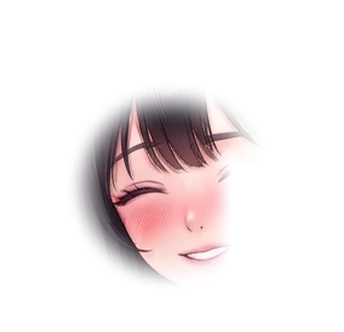
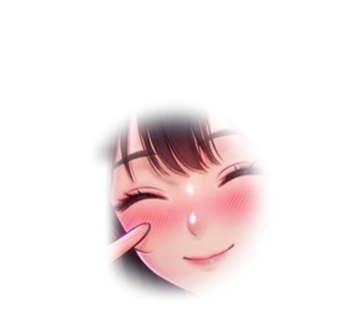
feat(cosplay-v2): rework Stage 5 into mega-fanservice bikini-maid bunny pose with arm behind head and giant soles in lens

Changed region(s): [[0.2035, 0.2711, 0.7849, 0.9036], [0.5523, 0.5723, 0.5814, 0.6024]]

diff --git a/src/domain/dialogue.ts b/src/domain/dialogue.ts
@@ -141,29 +141,27 @@ const STAGE_ZONE_OVERRIDES: Partial<
   },
   5: {
     head: [
-      'Нравятся мои глянцевые ушки Зайки? Ради тысячи сабов я готова мурлыкать и позировать хоть до утра~ ★ ♥',
-      'Подмигиваю и показываю пис самым щедрым VIP-папикам канала~ Ня, вы лучшие! ♥',
-      'Бархатный чокер с сердечком на шее так заводит... чувствую себя вашей личной ручной Зайкой~ ★ ♥',
+      'Слышите, как нежно звенит золотой колокольчик на моём чокере при каждом вдохе?~ Ня, любимые спонсоры! ★ ♥',
+      'Закинула ручку в кружевной манжете за голову, подмигиваю и показываю пис лучшим VIP-папикам канала~ ♥',
+      'Ушки Зайки и неоновое кресло — за 1000 сабов я устроила для вас самый горячий ночной эфир! ★ ♥',
     ],
     chest: [
-      'Розовая шнуровка на корсете трещит на каждом глубоком вдохе... Твич точно расплавится от такого косплея~ ♥',
-      'Открытые плечи, рюши, чокер и глубокое декольте — этот 1000-сабовый стрим войдёт в легенды! ★ ♥',
-      'М-мх, осторожнее со шнуровкой корсета — один неловкий узелок, и меня забанят за секунду!! Хи-хи~ ♥',
+      'Крошечный глянцевый бикини-топ с белыми рюшами и розовым бантиком еле прикрывает самое главное~ ♥',
+      'Когда поднимаю ручку за голову, грудь блестит в свете софитов и натягивает бретельки до предела!! ★ ♥',
+      'М-мх, осторожнее с розовым бантиком на груди — потянешь за ленточку, и весь верх развяжется прямо в эфире!! ♥',
     ],
     belly: [
-      'Откинулась в кресле, животик как на ладони... не щекочите, а то сладко дёрну ножками прямо по столу~ ♥',
-      'Каждый ваш донат заставляет меня томно выгибать спинку перед самой вебкой~ ★ ♥',
+      'Откинулась назад, кожа блестит от жары, животик и талия полностью открыты перед объективом~ ♥',
+      'Каждый ваш донат заставляет меня сладко выгибаться всем телом и звенеть колокольчиком~ ★ ♥',
     ],
     legs: [
-      'Заметили ажурную кружевную подвязку под короткой юбочкой? Надела специально ради вашего рекорда~ ★ ♥',
-      'Закинула ножки прямо на стол — в таком дерзком ракурсе под юбочкой почти не осталось тайн~ ♥',
-      'Коленки чуть сведены, кружево обнимает бедро... вижу, сколько клипов вы уже нарезали за минуту!~ ♥',
+      'Кружевная подвязка скользит по внутренней стороне бедра, а микро-шортики с рюшами почти ничего не прячут~ ★ ♥',
+      'Широко закинула глянцевые ножки прямо в объектив — такой откровенный ракурс только для моих 1000+ сабов~ ♥',
     ],
     feet: [
-      'А-ах, хи-хи!! Не щекочите голые пяточки прямо перед объективом — пальчики сами сжимаются на весь экран!! ♥',
-      'Прямо на столе, в ладони от 4K-линзы! Ценители босых ступней сегодня официально в раю~ ★ ♥',
-      'Дерево стола прохладное, а от ваших взглядов и донатов ступням безумно горячо~ Пошевелить пальчиками ещё ближе? ♥',
-      'М-мх! Каждая складочка на розовых пяточках в фокусе... ну и кто тут самая бесстыдная Зайка Твича?~ ★ ♥',
+      'А-ах, хи-хи, м-мх!! Обе босые ступни на пол-экрана прямо перед твоим лицом — не щекочи так сильно!! ♥',
+      'Видна каждая складочка и блеск на розовых пяточках в 4K! Ценители ножек сегодня официально сошли с ума~ ★ ♥',
+      'Пяточки лежат прямо на краю стола у самой вебки — сжимаю пальчики специально для твоих скриншотов~ ♥',
     ],
   },
 };

diff --git a/src/domain/subGoals.ts b/src/domain/subGoals.ts
@@ -218,11 +218,11 @@ export const SUB_GOAL_STAGES: readonly SubGoalStageDef[] = [
   {
     stage: 5,
     subsRequired: 1000,
-    shortGoalTitle: 'Мега-Косплей: Ножки на стол!',
-    outfitName: 'Косплей Зайки-горничной (босые ножки на столе в камеру!)',
-    removedItemLabel: '★ МЕГА КОСПЛЕЙ: НОЖКИ В КАМЕРУ!',
+    shortGoalTitle: 'Бикини-Косплей: Пяточки в линзу!',
+    outfitName: 'Бикини-косплей Зайки-горничной с колокольчиком (ножки в объектив!)',
+    removedItemLabel: '★ БИКИНИ-КОСПЛЕЙ: ПЯТОЧКИ В 4K!',
     storyDesc:
-      '1000 сабов: ультра-фансервис! Надела откровенный косплей Зайки с ушками, чокером и подвязкой и закинула босые пяточки прямо на стол в вебку!',
+      '1000 сабов: ультра-фансервис! Глянцевый бикини-топ горничной с рюшами, чокер с колокольчиком, ручка за головой и огромные блестящие пяточки прямо на столе в камеру!',
     plateUrl: '/art/heroine_t1_s5.webp',
     incomeMultiplier: 5.5,
     viewersBonus: 220,

diff --git a/src/heroine/HeroineRig.ts b/src/heroine/HeroineRig.ts
@@ -218,15 +218,15 @@ export class HeroineRig {
   private rebuildHitZones(): void {
     this.hitLayer.removeChildren().forEach((c) => c.destroy());
 
-    // Stage 5 has her giant bare soles propped forward on the desk (y=980..1505)!
+    // Stage 5 v2 has her TWO GIANT glossy bare soles propped forward right into the lens (y=860..1510)!
     const zones: { id: TapZoneId; x: number; y: number; w: number; h: number }[] =
       this.currentStage === 5
         ? [
-            { id: 'head', x: 315, y: 55, w: 390, h: 385 },
-            { id: 'chest', x: 345, y: 465, w: 340, h: 255 },
-            { id: 'belly', x: 365, y: 720, w: 300, h: 155 },
-            { id: 'legs', x: 160, y: 865, w: 690, h: 260 },
-            { id: 'feet', x: 310, y: 1000, w: 390, h: 505 },
+            { id: 'head', x: 320, y: 55, w: 385, h: 390 },
+            { id: 'chest', x: 330, y: 450, w: 375, h: 245 },
+            { id: 'belly', x: 405, y: 695, w: 225, h: 175 },
+            { id: 'legs', x: 235, y: 690, w: 555, h: 280 },
+            { id: 'feet', x: 110, y: 865, w: 805, h: 645 },
           ]
         : [
             { id: 'legs', x: 110, y: 690, w: 805, h: 420 },

diff --git a/scripts/process_cosplay_stage5.py b/scripts/process_cosplay_stage5.py
@@ -1,11 +1,12 @@
 #!/usr/bin/env python3
 """
-Processes Stage 5 (1000 Subs — Mega Bunny-Maid Cosplay Stream with Feet Propped on Desk!)
+Processes Stage 5 v2 (1000 Subs — Mega-Fanservice French-Maid Bunny Bikini Cosplay
+with Arm Behind Head & Giant Foreshortened Bare Soles Resting on the Stream Desk!)
 and extracts subpixel-aligned Stage 5 facial expression patches:
 - public/art/heroine_t1_s5.webp         (resting sultry open-eyes Stage 5 plate)
-- public/art/patch_t1_s5_blink.webp     (gentle closed-eyes blink)
+- public/art/patch_t1_s5_blink.webp     (symmetrical both-eyes-closed blink)
 - public/art/patch_t1_s5_tease.webp     (cheeky peace-sign wink!)
-- public/art/patch_t1_s5_fluster.webp   (ticklish deep-blush gasp when soles are tapped!)
+- public/art/patch_t1_s5_fluster.webp   (misty-eyed deep-crimson breathless gasp!)
 """
 from pathlib import Path
 import cv2
@@ -17,7 +18,7 @@ RAW_DIR = ROOT / "art-studio" / "raw"
 OUT_DIR = ROOT / "public" / "art"
 QA_DIR = ROOT / ".qa-out"
 
-# Patch crop coordinates in the 1024x1536 target space for Stage 5 head
+# Patch crop coordinates in the 1024x1526 target space for Stage 5 v2 head
 S5_PX, S5_PY, S5_PW, S5_PH = 340, 128, 344, 332
 
 
@@ -27,10 +28,10 @@ def remove_plum_matte_s5(rgb_np: np.ndarray, target_size: tuple[int, int]) -> Im
 
     corners = np.concatenate(
         [
-            arr[0:40, 0:40].reshape(-1, 3),
-            arr[0:40, -40:].reshape(-1, 3),
-            arr[-40:, 0:40].reshape(-1, 3),
-            arr[-40:, -40:].reshape(-1, 3),
+            arr[0:36, 0:36].reshape(-1, 3),
+            arr[0:36, -36:].reshape(-1, 3),
+            arr[-36:, 0:36].reshape(-1, 3),
+            arr[-36:, -36:].reshape(-1, 3),
         ],
         axis=0,
     )
@@ -49,15 +50,15 @@ def remove_plum_matte_s5(rgb_np: np.ndarray, target_size: tuple[int, int]) -> Im
     border_labels.update(np.unique(labels[:, -1]))
     border_labels.discard(0)
 
-    # Also catch enclosed flat plum-backdrop loops under both bent arms & chair armrests!
+    # Catch enclosed flat plum-backdrop pockets (under raised left arm, between chair armrests & soles!)
     enclosed_bg_labels = set()
     for lbl in range(1, num_labels):
         if lbl in border_labels:
             continue
         area = stats[lbl, cv2.CC_STAT_AREA]
-        if area > 140:
+        if area > 110:
             comp_mask = labels == lbl
-            if float(np.std(dist[comp_mask])) < 3.4:
+            if float(np.std(dist[comp_mask])) < 3.5:
                 enclosed_bg_labels.add(lbl)
 
     all_bg_labels = border_labels | enclosed_bg_labels
@@ -73,14 +74,7 @@ def remove_plum_matte_s5(rgb_np: np.ndarray, target_size: tuple[int, int]) -> Im
     edge_zone = near_ext_bg & (~ext_bg) & ((r - g) > 6.0)
     alpha[edge_zone] = np.minimum(alpha[edge_zone], ramp[edge_zone])
 
-    # Subtle mesh translucency on dark chair backrest wings
-    yy, xx = np.mgrid[0:H0, 0:W0]
-    plum_cast = ((r - g) > 10.0) & ((b - g) > 5.0) & (dist < 52.0) & (alpha > 0.5) & (r < 95.0)
-    in_mesh_zone = (yy > int(H0 * 0.25)) & (yy < int(H0 * 0.56)) & ((xx < int(W0 * 0.34)) | (xx > int(W0 * 0.68)))
-    mesh_holes = plum_cast & in_mesh_zone
-    alpha[mesh_holes] = np.clip((dist[mesh_holes] - 14.0) / 38.0, 0.24, 0.88)
-
-    alpha = cv2.GaussianBlur(alpha, (0, 0), sigmaX=0.85, sigmaY=0.85)
+    alpha = cv2.GaussianBlur(alpha, (0, 0), sigmaX=0.8, sigmaY=0.8)
     alpha[ext_bg] = 0.0
 
     semi = (alpha > 0.02) & (alpha < 0.96)
@@ -88,11 +82,13 @@ def remove_plum_matte_s5(rgb_np: np.ndarray, target_size: tuple[int, int]) -> Im
     decontaminated = (arr - (1.0 - alpha[..., None]) * bg[None, None, :]) / safe_a
     out_rgb = np.where(semi[..., None], np.clip(decontaminated, 0, 255), arr)
 
-    # Physical 3D Desk Occlusion: chair hydraulic post (dark neutral grey at bottom center)
-    # goes UNDER the wooden desk while her pink bare heels rest ON TOP OF the wooden desk!
-    post_zone = (yy > int(H0 * 0.88)) & (xx > int(W0 * 0.44)) & (xx < int(W0 * 0.56))
-    dark_metal = (out_rgb[:, :, 0] < 85) & (out_rgb[:, :, 1] < 85) & (out_rgb[:, :, 2] < 92)
-    post_mask = post_zone & dark_metal
+    # Physical 3D Desk Occlusion: chair hydraulic post & neon post rim between her heels
+    # go UNDER the wooden desk while her giant glossy pink soles rest ON TOP OF the wooden desk!
+    yy, xx = np.mgrid[0:H0, 0:W0]
+    center_post_box = (yy > int(H0 * 0.848)) & (xx > int(W0 * 0.43)) & (xx < int(W0 * 0.59))
+    lever_zone = (yy > int(H0 * 0.855)) & (xx > int(W0 * 0.16)) & (xx < int(W0 * 0.28))
+    not_pink_sole = ~((out_rgb[:, :, 0] > 165) & ((out_rgb[:, :, 0] - out_rgb[:, :, 2]) > 25))
+    post_mask = center_post_box | (lever_zone & not_pink_sole)
     alpha[post_mask] = 0.0
     alpha = cv2.GaussianBlur(alpha, (0, 0), sigmaX=0.6, sigmaY=0.6)
     alpha[ext_bg | post_mask] = 0.0
@@ -106,29 +102,43 @@ def remove_plum_matte_s5(rgb_np: np.ndarray, target_size: tuple[int, int]) -> Im
 
 def build_s5_face_mask(w: int, h: int) -> np.ndarray:
     yy, xx = np.mgrid[0:h, 0:w]
-    cx = w * 0.495
-    cy = h * 0.56
-    rx = w * 0.265
+    cx = w * 0.505
+    cy = h * 0.61
+    rx = w * 0.255
     ry = h * 0.275
     dist = np.sqrt(((xx - cx) / rx) ** 2 + ((yy - cy) / ry) ** 2)
-    interior = np.clip((1.05 - dist) / 0.32, 0.0, 1.0).astype(np.float32)
+    interior = np.clip((1.05 - dist) / 0.30, 0.0, 1.0).astype(np.float32)
 
-    # Protect peace-sign fingertips touching right cheek (`x > 0.63*w, y > 0.44*h`)
-    interior[int(h * 0.46) :, int(w * 0.64) :] = 0.0
-    # Protect choker collar at very bottom
-    interior[int(h * 0.84) :, :] = 0.0
+    # Protect peace-sign fingertip touching her screen-left cheek (`x < 0.34*w, y > 0.45*h`)
+    interior[int(h * 0.48) :, : int(w * 0.34)] = 0.0
+    # Protect bell choker collar at very bottom
+    interior[int(h * 0.88) :, :] = 0.0
 
-    return cv2.GaussianBlur(interior, (25, 25), 7.5)
+    return cv2.GaussianBlur(interior, (23, 23), 7.0)
 
 
-def extract_s5_patch(base_rgba: np.ndarray, expr_raw: Path, target_size: tuple[int, int], face_mask: np.ndarray) -> Image.Image:
+def stitch_fluster_head_onto_base(base_full_im: Image.Image, head_crop_im: Image.Image) -> Image.Image:
+    """Places s5_v2_head_fluster.png back into exact (280, 120, 744, 584) box of base_full_im."""
+    out = base_full_im.copy()
+    box_w, box_h = 744 - 280, 584 - 120
+    resized_head = head_crop_im.convert("RGB").resize((box_w, box_h), Image.Resampling.LANCZOS)
+    out.paste(resized_head, (280, 120))
+    return out
+
+
+def extract_s5_patch(
+    base_rgba: np.ndarray,
+    expr_im: Image.Image,
+    name: str,
+    target_size: tuple[int, int],
+    face_mask: np.ndarray,
+) -> Image.Image:
     TW, TH = target_size
-    raw_im = Image.open(expr_raw).convert("RGB").resize((TW, TH), Image.Resampling.LANCZOS)
-    cand = np.array(raw_im)
+    cand = np.array(expr_im.convert("RGB").resize((TW, TH), Image.Resampling.LANCZOS))
     base_rgb = base_rgba[:, :, :3]
 
     # Subpixel align on upper bangs + headset band
-    ax1, ay1, ax2, ay2 = 360, 130, 660, 250
+    ax1, ay1, ax2, ay2 = 380, 150, 650, 275
     ref_gray = cv2.cvtColor(base_rgb[ay1:ay2, ax1:ax2], cv2.COLOR_RGB2GRAY).astype(np.float32)
     cand_gray = cv2.cvtColor(cand[ay1:ay2, ax1:ax2], cv2.COLOR_RGB2GRAY).astype(np.float32)
     (dx, dy), _ = cv2.phaseCorrelate(ref_gray, cand_gray)
@@ -136,7 +146,7 @@ def extract_s5_patch(base_rgba: np.ndarray, expr_raw: Path, target_size: tuple[i
     dy = float(np.clip(dy, -6.0, 6.0))
     M = np.float32([[1.0, 0.0, -dx], [0.0, 1.0, -dy]])
     aligned = cv2.warpAffine(cand, M, (TW, TH), flags=cv2.INTER_LINEAR, borderMode=cv2.BORDER_REPLICATE)
-    print(f"  {expr_raw.name}: shift=({dx:+.2f}, {dy:+.2f})px")
+    print(f"  {name}: shift=({dx:+.2f}, {dy:+.2f})px")
 
     crop_rgb = aligned[S5_PY : S5_PY + S5_PH, S5_PX : S5_PX + S5_PW]
     base_a = base_rgba[S5_PY : S5_PY + S5_PH, S5_PX : S5_PX + S5_PW, 3].astype(np.float32) / 255.0
@@ -151,8 +161,13 @@ def main() -> None:
     target_size = Image.open(OUT_DIR / "heroine_t1_base.webp").size
     print("Target stage plate size:", target_size)
 
-    base_raw = np.array(Image.open(RAW_DIR / "t1_stage5_open_bold.png").convert("RGB"))
-    s5_rgba_im = remove_plum_matte_s5(base_raw, target_size)
+    open_bold_im = Image.open(RAW_DIR / "t1_stage5_v2_open_bold.png").convert("RGB")
+    blink_im = Image.open(RAW_DIR / "t1_stage5_v2_blink.png").convert("RGB")
+    tease_wink_im = Image.open(RAW_DIR / "t1_stage5_v2_base.png").convert("RGB")
+    fluster_head_im = Image.open(RAW_DIR / "s5_v2_head_fluster.png").convert("RGB")
+    fluster_full_im = stitch_fluster_head_onto_base(open_bold_im, fluster_head_im)
+
+    s5_rgba_im = remove_plum_matte_s5(np.array(open_bold_im), target_size)
     s5_out = OUT_DIR / "heroine_t1_s5.webp"
     s5_rgba_im.save(s5_out, "WEBP", quality=91, method=6)
     print(f"Saved {s5_out.name} ({s5_out.stat().st_size // 1024} KB)")
@@ -160,26 +175,15 @@ def main() -> None:
     s5_rgba_np = np.array(s5_rgba_im)
     face_mask = build_s5_face_mask(S5_PW, S5_PH)
 
-    rendered = [("open_bold", s5_rgba_im)]
-    p_left_wink = extract_s5_patch(s5_rgba_np, RAW_DIR / "t1_stage5_blink.png", target_size, face_mask)
-    p_right_wink = extract_s5_patch(s5_rgba_np, RAW_DIR / "t1_stage5_cosplay.png", target_size, face_mask)
-    p_fluster = extract_s5_patch(s5_rgba_np, RAW_DIR / "t1_stage5_fluster.png", target_size, face_mask)
-
-    # Combine left closed eye (from p_left_wink) + right closed eye (from p_right_wink) along nose bridge!
-    lw_np = np.array(p_left_wink).astype(np.float32)
-    rw_np = np.array(p_right_wink).astype(np.float32)
-    ramp_x = np.clip((np.arange(S5_PW, dtype=np.float32) - (S5_PW * 0.46)) / (S5_PW * 0.08), 0.0, 1.0)[None, :, None]
-    both_closed_rgb = np.clip(lw_np[:, :, :3] * (1.0 - ramp_x) + rw_np[:, :, :3] * ramp_x, 0, 255).astype(np.uint8)
-    both_closed_a = np.maximum(lw_np[:, :, 3], rw_np[:, :, 3]).astype(np.uint8)
-    p_true_blink = Image.fromarray(np.dstack([both_closed_rgb, both_closed_a]), mode="RGBA")
-
-    save_list = [
-        ("patch_t1_s5_blink.webp", p_true_blink),
-        ("patch_t1_s5_tease.webp", p_right_wink),
-        ("patch_t1_s5_fluster.webp", p_fluster),
+    patches = [
+        ("blink", blink_im, "patch_t1_s5_blink.webp"),
+        ("tease_wink", tease_wink_im, "patch_t1_s5_tease.webp"),
+        ("fluster_gasp", fluster_full_im, "patch_t1_s5_fluster.webp"),
     ]
 
-    for dst_name, p_im in save_list:
+    rendered = [("open_bold", s5_rgba_im)]
+    for label, src_im, dst_name in patches:
+        p_im = extract_s5_patch(s5_rgba_np, src_im, label, target_size, face_mask)
         dst = OUT_DIR / dst_name
         p_im.save(dst, "WEBP", quality=92, method=6)
         print(f"Saved {dst.name} ({dst.stat().st_size // 1024} KB)")
@@ -188,7 +192,7 @@ def main() -> None:
         comp.alpha_composite(p_im, (S5_PX, S5_PY))
         rendered.append((dst_name, comp))
 
-    # Build 4-up preview over actual room + desk (with Stage 5 feet resting ON TOP OF fg_desk_t1!)
+    # Build 4-up preview over actual room + desk (with Stage 5 giant soles resting ON TOP OF fg_desk_t1!)
     bg = Image.open(OUT_DIR / "bg_room_t1.webp").convert("RGBA")
     desk = Image.open(OUT_DIR / "fg_desk_t1.webp").convert("RGBA")
 
@@ -197,13 +201,13 @@ def main() -> None:
         scene = bg.copy()
         scene.alpha_composite(desk, (0, 0))
         scaled_char = full_char.resize(
-            (int(target_size[0] * 0.485), int(target_size[1] * 0.485)),
+            (int(target_size[0] * 0.4745), int(target_size[1] * 0.4745)),
             Image.Resampling.LANCZOS,
         )
         cx = int(688 - scaled_char.width / 2)
-        cy = int(761 - scaled_char.height)
+        cy = 32
         scene.alpha_composite(scaled_char, (cx, cy))
-        crop = scene.crop((410, 15, 965, 765)).resize((352, 430), Image.Resampling.LANCZOS)
+        crop = scene.crop((405, 15, 970, 765)).resize((352, 430), Image.Resampling.LANCZOS)
         strip.alpha_composite(crop, (4 + i * 360, 5))
 
     strip.save(QA_DIR / "qa_stage5_cosplay_4up.png")
